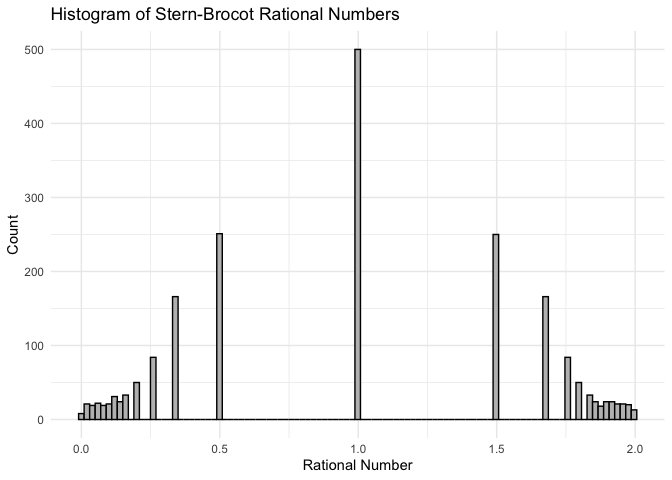
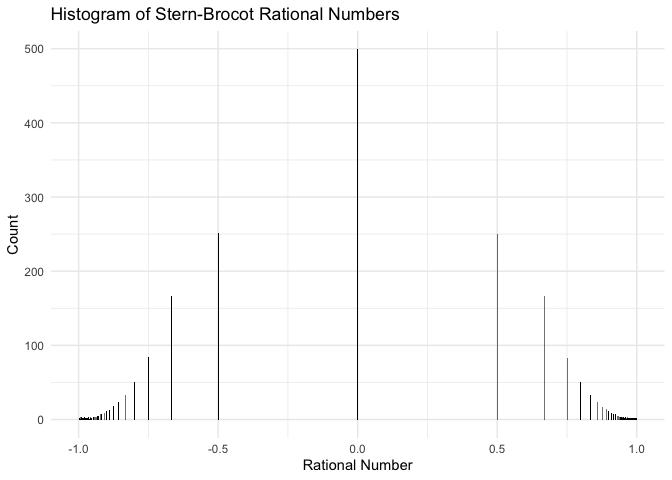
updated plots with thomae funciton

diff --git a/README.md b/README.md
@@ -8,3 +8,9 @@ brocot
 ![](README_files/figure-gfm/unnamed-chunk-2-1.png)<!-- -->
 
 ![](README_files/figure-gfm/unnamed-chunk-3-1.png)<!-- -->
+
+![](README_files/figure-gfm/unnamed-chunk-4-1.png)<!-- -->
+
+![](README_files/figure-gfm/unnamed-chunk-5-1.png)<!-- -->
+
+![](README_files/figure-gfm/unnamed-chunk-6-1.png)<!-- -->
